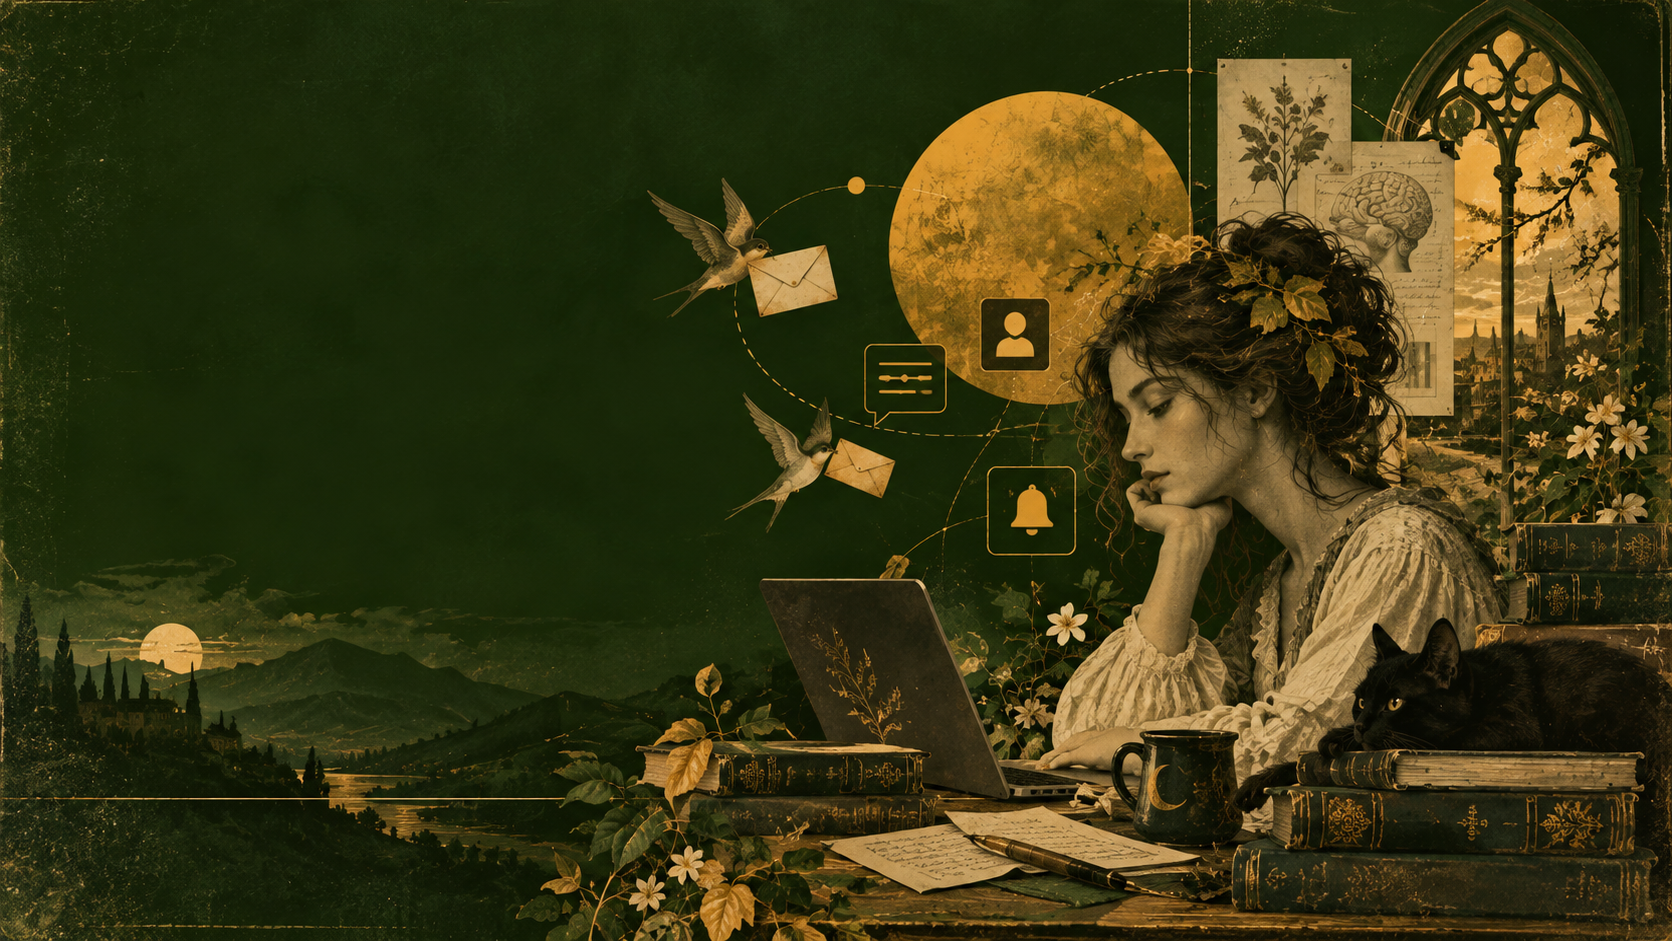
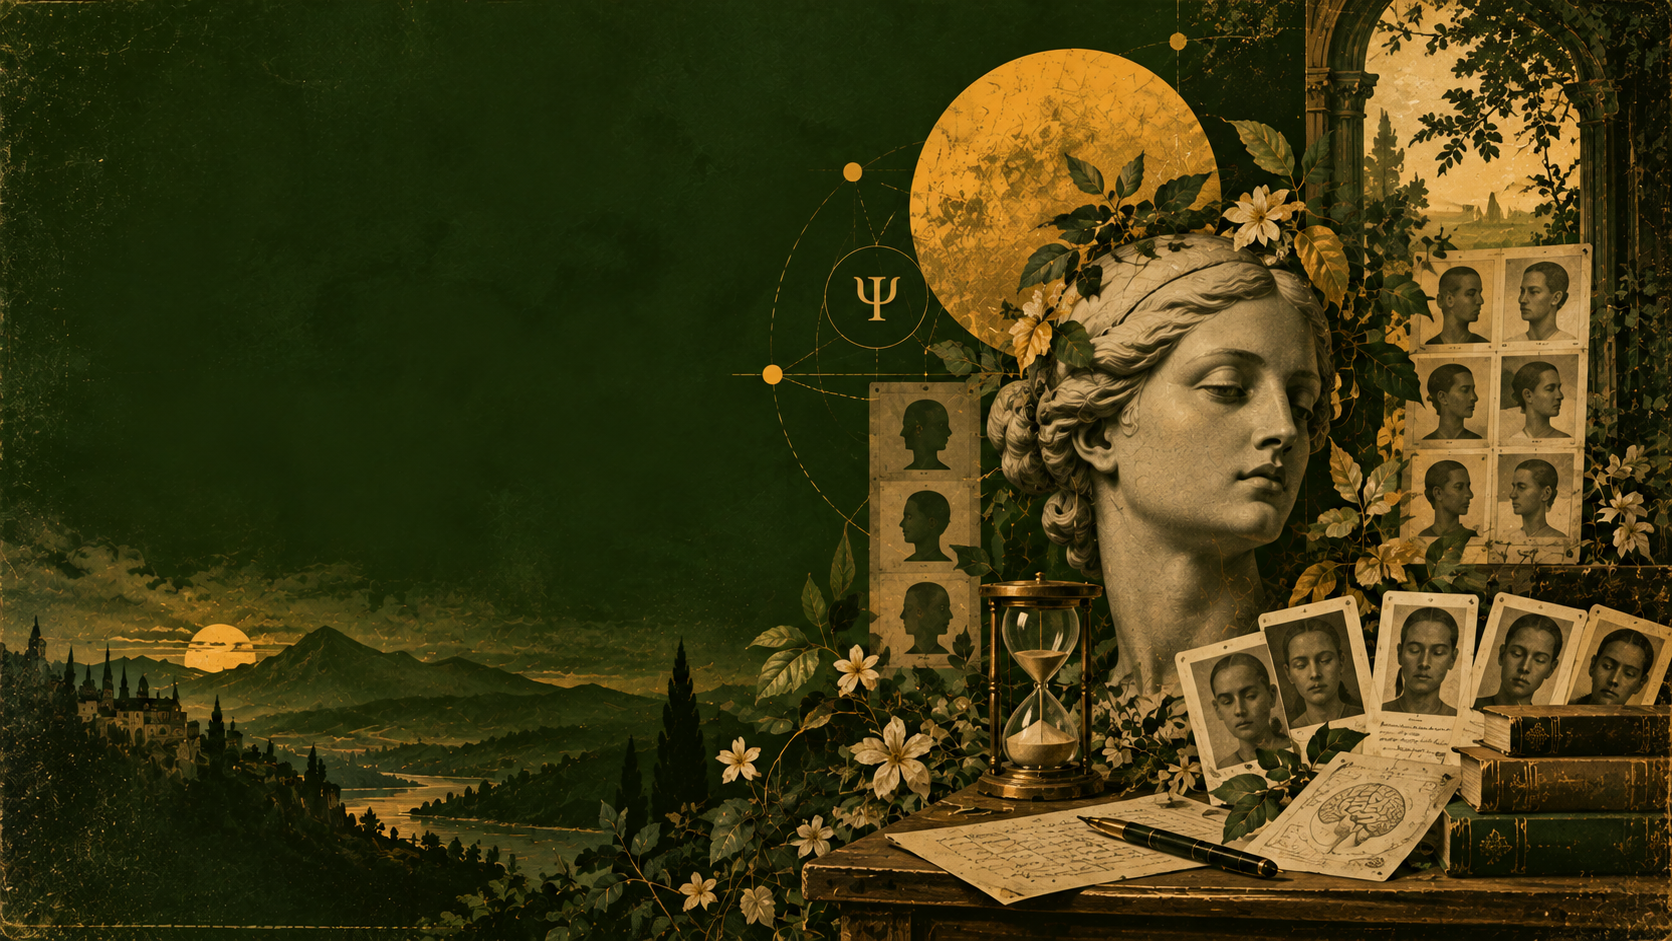
Added slide 3 image

diff --git a/src/features/components/HeroSlider.js b/src/features/components/HeroSlider.js
@@ -8,6 +8,7 @@ import { useTranslation } from "react-i18next";
 
 import SlideOne from "../../style/res/hero_images/hero_slide_1.png";
 import SlideTwo from "../../style/res/hero_images/hero_slide_2.png";
+import SlideThree from "../../style/res/hero_images/hero_slide_3.png";
 
 export default function HeroSlider() {
 
@@ -58,7 +59,9 @@ export default function HeroSlider() {
                         <p>{t("hero.slide3.subtitle")}</p>
                     </div>
                     
-                    <div className="image-replacer"></div>
+                    <div className="image-replacer">
+                        <img src={SlideThree} alt="Slide 3" className="slide-image"/>
+                    </div>
 
                 </div>
             </SwiperSlide>
